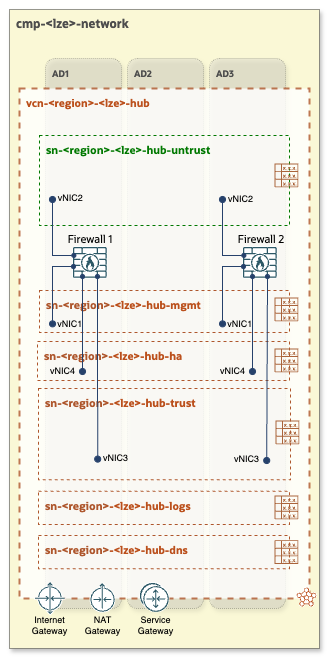
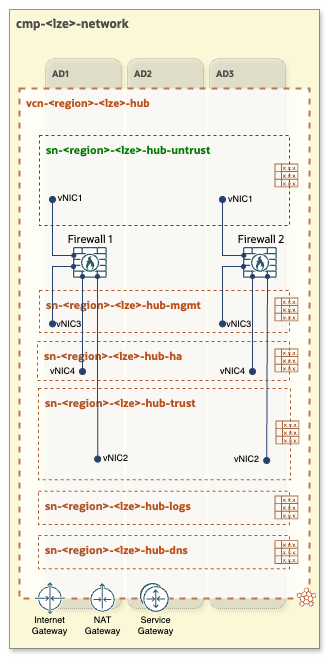
the first update of Hub-C and fixes
Former-commit-id: 9c76accb9f4b26ef5805c9e2a7d994ae54cd5b2f

diff --git a/addons/oci-hub-models/hub_c/hub-c-packet_flow.md b/addons/oci-hub-models/hub_c/hub-c-packet_flow.md
@@ -1,0 +1,103 @@
+# OCI Open LZ - [Hub C Packet Flow](#)
+
+&nbsp; 
+
+### Overview
+The purpose of this document is to illustrate, through explanatory animations, the journey of a request packet (shown as a red rectangle) and a response packet (shown as a blue rectangle), along with the corresponding routing rules in each routing table (RT), for Inbound-Outbound (North-South) and East-West network traffic, within a **Hub C** and Spoke VCNs.
+
+&nbsp; 
+
+### Hub configuration details
+The setup includes two private Network Load Balancers operating in transparent mode with symmetric hashing enabled, two third-party network firewalls ensuring high availability (HA), and a public Load Balancer (LBaaS).
+
+&nbsp;
+
+#### **Network Load Balancer: NLB-Untrust**
+   - Type: *Private*
+   - Mode: *Source and destination IP header preservation (transparent)*
+   - Symmetric hashing: *Enabled*
+   - Placement: *Public Untrust subnet*
+   - Backends: *The first vNICs of Firewall 1 and Firewall 2*
+ 
+#### **Network Load Balancer: NLB-Trust**
+   - Type: *Private*
+   - Mode: *Source and destination IP header preservation (transparent)*
+   - Symmetric hashing: *Enabled*
+   - Placement: *Private Trust subnet*
+   - Backends: *The second vNICs of Firewall 1 and Firewall 2*
+
+&nbsp;
+
+#### **Third-Party Network Firewall configuration**
+In this architecture, each firewall appliance has two virtual network interfaces: one in the Trust (private) subnet and the second one in the Untrust (public) subnet (depending on the third-party firewall vendor, additional interfaces may be presented, such as a management network interface). The interface in the public subnet is associated with a public IP address. The firewalls perform NAT for outbound traffic, allowing the Spoke VMs to reach the internet via the public interfaces (vNIC1) of either Firewall 1 or Firewall 2.
+
+The firewalls have been configured with the following static route rules:
+
+| Network | Description | Gateway | Description |
+| --- | --- | --- | --- |
+| 0.0.0.0/0 |     | 10.0.0.1 | Default Gateway of Untrust subnet |
+| 10.0.2.0/24 | CIDR of Load Balancer's subnet | 10.0.1.1 | Default Gateway of Trust subnet |
+| 192.168.10.0/24 | Spoke A | 10.0.1.1 | Default Gateway of Trust subnet |
+| 192.168.20.0/24 | Spoke B | 10.0.1.1 | Default Gateway of Trust subnet |
+
+*Table 1: 3rd Party Firewall Route Table*
+
+&nbsp;
+
+#### **Load Balancer (LBaaS)**
+To serve different web applications the public Load Balancer leverages the routing policy, which has the following configuration:
+- if a.example.com, then route to backend VM-A
+- if b.example.com, then route to backend VM-B
+
+&nbsp;
+
+### Symmetric Hashing feature
+
+The OCI Network Load Balancer leverages symmetric hashing to ensure consistent handling of packets belonging to the same flow in both forward and return directions. Here's how symmetric hashing benefits the configuration:
+- Hash Calculation: Symmetric hashing calculates the same hash for packets in both forward and return directions. This means the hash remains unchanged when the source IP address:port value is exchanged with the destination IP address:port value.
+- Traffic Inspection: By enabling symmetric hashing, both forward and return traffic can be inspected by the same firewall appliance. This firewall appliance is hosted as a backend on the OCI Network Load Balancer, functioning in a [bump-in-the-wire](https://en.wikipedia.org/wiki/Bump-in-the-wire) fashion.
+- Simplified Firewall Configuration: Symmetric hashing eliminates the need for complex configurations on the firewall appliances, such as source NAT. This helps prevent asymmetric routing issues, ensuring a more streamlined and efficient setup.
+
+Enabling symmetric hashing allows for better traffic management and inspection, scaling of network firewall appliances, and reducing the complexity of firewall configurations while maintaining efficient and reliable network routing.
+
+For more information on [OCI Network Load Balancer and Symmetric hashing](https://docs.oracle.com/en-us/iaas/Content/NetworkLoadBalancer/NetworkLoadBalancers/preserve-source-id.htm).
+
+&nbsp;
+
+### 1. Inbound Packet Flow
+- Source: Internet
+- Destination: 192.168.10.10 
+
+<img src=“https://github.com/vavardan/hub_spoke_assets/blob/main/hub_c_inbound.gif” width=“600"/>
+
+A user from the Internet attempts to access *a.example.com*, which is hosted on **VM-A** behind a Public Load Balancer. Upon DNS resolution, the user's request targets the Load Balancer's public IP address. The packet then enters the Hub VCN via Internet Gateway, which has an associated VCN route table **RT: vcn-hub-igw** (Gateway Ingress Routing). The route rule defined in this VCN route table forces the packet to go through a private IP address of the **NLB-Untrust** network load balancer. **NLB-Untrust** selects one of the backend Firewalls and uses symmetric hashing to calculate the same hash for packets in both, forward and return directions. After control and inspection the firewall routes the packet to the public load balancer, based on its internal static routes ([*Table 1*](#Third-Party-Network-Firewall-configuration)) and VCN implicit local route. The Load Balancer then attempts to forward the packet to the appropriate backend VM (in this case to **VM-A**), based on its routing policy rules.
+
+&nbsp; 
+
+### 2. Outbound Packet Flow
+- Source: 192.168.10.10
+- Destination: Internet
+  
+<img src=“https://github.com/vavardan/hub_spoke_assets/blob/main/hub_c_outbound.gif” width=“600"/>
+
+**VM-A** initiates a communication to the Internet. The packet traverses through the Dynamic Routing Gateway (DRG) and is forced by the VCN route table - **RT: vcn-hub-ingress** to choose as the next-hop **NLB-Trust**. Then it selects one of the backend firewalls and uses symmetric hashing to calculate the same hash for packets in both, forward and return directions. After inpection, firewall does a NAT and routes the packet via vNIC1 to the Internet Gateway, based on its internal static routes ([*Table 1*](#Third-Party-Network-Firewall-configuration)) and VCN route table - **RT: vcn-hub-subnet-untrust**.
+
+&nbsp; 
+
+### 3. East-West Packet Flow
+- Source: 192.168.10.10
+- Destination: 192.168.20.20 
+
+<img src=“https://github.com/vavardan/hub_spoke_assets/blob/main/hub_c_east_west.gif” width=“600"/>
+
+**VM-A** initiates a communication with **VM-B**. The packet goes through the Dynamic Routing Gateway (DRG) and and is forced by the VCN route table - **RT: vcn-hub-ingress** to choose as the next-hop **NLB-Trust**. Then it selects one of the backend firewalls and uses symmetric hashing to calculate the same hash for packets in both, forward and return directions. Firewall ispects the packet and routes it back to the DRG, based on its internal static routes ([*Table 1*](#Third-Party-Network-Firewall-configuration)) and VCN route table - **RT: vcn-hub-subnet-trust**, which is assosiated with **subnet-hub-trust** subnet. The response packet follows a similar flow to get back to the **VM-A**.
+
+&nbsp; 
+
+# License
+
+Copyright (c) 2024 Oracle and/or its affiliates.
+
+Licensed under the Universal Permissive License (UPL), Version 1.0.
+
+See [LICENSE](LICENSE) for more details.

diff --git a/addons/oci-hub-models/hub_c/readme.md b/addons/oci-hub-models/hub_c/readme.md
@@ -1,0 +1,92 @@
+# OCI Open LZ - [Hub C](#)
+## A Hub with 3rd Party FW - Active/Active
+
+&nbsp; 
+
+**Table of Contents**
+
+[1. Overview](#1-overview)</br>
+[2. Components](#2-components)</br>
+[3. Specifications and Considerations](#3-specifications-and-considerations)</br>
+[4. Routing](#4-routing)</br>
+[5. Automation](#5-automation)</br>
+
+&nbsp;
+
+### Overview
+**Hub C** features third-party network firewalls configured in an Active/Active design, paired with OCI private Network Load Balancers operating in transparent mode with symmetric hashing to ensure packet flow symmetry. These firewalls manage both Inbound/Outbound (North-South) and East-West traffic, providing thorough control and inspection.
+
+&nbsp; 
+
+<img src="images/hub_c_design.png" width="250" height="value">
+
+> [!NOTE]
+> *This Hub diagram presents a general view of the **Hub C** architecture and its key concepts. A more detailed example, including routing tables and an internet-facing Load Balancer, is presented below.*
+
+&nbsp;
+
+###  2. Components
+- VCN (Virtual Cloud Network)
+- Two regional public subnets (depicted in green)
+    1. public-subnet for External Network Load Balancer (NLB-Untrust) and the external interfaces of the firewalls (vNIC1)
+    2. public-subnet for Load Balancer (LBaaS)
+- Four regional private subnets (depicted in dark-orange)
+    1. private-subnet for Internal Network Load Balancer (NLB-Trust) and the internal interfaces of the firewalls (vNIC2)
+    2. private-subnet for managment workloads (depending on the 3rd-party firewall vendor, additional interfaces may be created here, such as a management network interfaces)
+    3. private-subnet for logs
+    4. private-subnet for DNS (for OCI DNS resolver endpoints)
+- Internet Gateway
+- Service Gateway
+- Two OCI Network Load Balancers
+- Two 3rd party Network Firewalls
+- Public Load Balancer (LBaaS)
+
+&nbsp;
+
+### 3. Specifications and Considerations
+- Symmetric hashing: Both OCI Network Load Balancers are private and operate in source and destination IP header preservation mode with symmetric hashing enabled. This feature prevents asymmetric routing, ensuring that request and return packets pass through the same firewall appliance.
+- Firewalls: Third-party network firewalls are configured in Active/Active mode, ensuring resilience and scalability. The number of firewalls can be scaled up or down depending on throughput requirements and demand.
+- NAT: This Hub model does not include a OCI NAT Gateway, as NAT functionality is handled by third-party firewalls (depending on specific requirements, this function can be configured and handled by an OCI NAT Gateway).
+- Traffic visibility: Provides detailed control over inbound/source traffic entering or outbound traffic leaving the Hub VCN.
+- License flexibility: Possibility to use already existing license (BYOL) from a specific vendor.
+
+&nbsp;
+
+### 4. Routing
+
+The following diagram presents a Hub & Spoke architecture diagram with corresponding routing tables and routing rules.
+
+<img src="images/hub_c_routing.png" width="900" height="value">
+
+&nbsp;
+
+#### Legend:
+
+<img src="images/oci_hub_models_legend.png" width="200" height="value">
+
+&nbsp;
+
+For a comprehensive understanding of how network packets flow within **Hub C** and Spoke VCNs refer to the [Network packet flow animation - Hub C](/addons/oci-hub-models/hub_c/hub-c-packet_flow.md).
+
+&nbsp;
+
+> [!NOTE]
+> *The CIDR ranges shown in the architecture diagram are for illustrative purposes only and should be adjusted to align with each specific use case.*
+
+&nbsp;
+
+
+### 5. Automation
+
+For automating this Hub model use the [CIS Network](https://github.com/oracle-quickstart/terraform-oci-cis-landing-zone-networking) Terraform modules. As an example configuration please refer to [oci_open_lz_one-oe_network.auto.tfvars.json](/one-oe/runtime/one-click/oci_open_lz_one-oe_network.auto.tfvars.json).
+
+
+&nbsp; 
+
+# License
+
+Copyright (c) 2024 Oracle and/or its affiliates.
+
+Licensed under the Universal Permissive License (UPL), Version 1.0.
+
+See [LICENSE](LICENSE) for more details.

diff --git a/addons/oci-hub-models/readme.md b/addons/oci-hub-models/readme.md
@@ -13,22 +13,19 @@ This document provides an in-depth exploration of the various **OCI Network Hub 
 
 ### The Hub Menu
 
-| [**HUB A**](/addons/oci-hub-models/hub_a/readme.md) | [**HUB B**](/addons/oci-hub-models/hub_b/readme.md) | **HUB C**  | **HUB D**  | 
+| [**HUB A**](/addons/oci-hub-models/hub_a/readme.md) | [**HUB B**](/addons/oci-hub-models/hub_b/readme.md) | [**HUB C**](/addons/oci-hub-models/hub_c/readme.md)  | **HUB D**  | 
 |:-:|:-:|:-:|:-:|
-| [<img src="hub_a/images/hub_a_design.png" width="277" height="">](/addons/oci-hub-models/hub_a/readme.md) | [<img src="hub_b/images/hub_b_design.png" width="274" height="">](/addons/oci-hub-models/hub_b/readme.md) | <img src="hub_c/images/hub_c_design.png" width="280" height=""> |  <img src="hub_d/images/hub_d_design.png" width="280" height=""> | 
+| [<img src="hub_a/images/hub_a_design.png" width="300" height="">](/addons/oci-hub-models/hub_a/readme.md) | [<img src="hub_b/images/hub_b_design.png" width="300" height="">](/addons/oci-hub-models/hub_b/readme.md) | [<img src="hub_c/images/hub_c_design.png" width="315" height="">](/addons/oci-hub-models/hub_c/readme.md) | <img src="hub_d/images/hub_d_design.png" width="315" height=""> | 
 | Hub with Two **OCI Network Firewalls** | Hub with One **OCI Network Firewall** | Hub with **3rd Party FW** - AA | Hub with **3rd Party FW** - AP |
-| [Overview and Routing](/addons/oci-hub-models/hub_a/readme.md)  | [Overview and Routing](/addons/oci-hub-models/hub_b/readme.md) | Soon | -- |
-| [Packet Flow Animation](/addons/oci-hub-models/hub_a/hub-a-packet_flow.md) | [Packet Flow Animation](/addons/oci-hub-models/hub_b/hub-b-packet_flow.md) | Soon | -- |
-
-
-
+| [Overview and Routing](/addons/oci-hub-models/hub_a/readme.md)  | [Overview and Routing](/addons/oci-hub-models/hub_b/readme.md) | [Overview and Routing](/addons/oci-hub-models/hub_c/readme.md) | -- |
+| [Packet Flow Animation](/addons/oci-hub-models/hub_a/hub-a-packet_flow.md) | [Packet Flow Animation](/addons/oci-hub-models/hub_b/hub-b-packet_flow.md) | [Packet Flow Animation](/addons/oci-hub-models/hub_c/hub-c-packet_flow.md) | -- |
 
 &nbsp; 
 
 #### Abbreviations:
 - **FW** = Firewall
-- **AA** = Active - Active
-- **AP** = Active - Passive
+- **AA** = Active/Active
+- **AP** = Active/Passive
 - **cmp** = Compartment
 - **AD** = Availability Domain
 - **vcn** = Virtual Cloud Network

diff --git a/addons/oci-hub-models/hub_b/hub-b-packet_flow.md b/addons/oci-hub-models/hub_b/hub-b-packet_flow.md
@@ -3,7 +3,7 @@
 &nbsp; 
 
 ### Overview
-The purpose of this document is to illustrate, through explanatory animations, the journey of a request packet (shown as a red rectangle) and a response packet (shown as a blue rectangle), along with the corresponding routing rules in each routing table (RT), for Inbound-Outbound (north-south) and East-West network traffic, within a **Hub B** and Spoke VCNs.
+The purpose of this document is to illustrate, through explanatory animations, the journey of a request packet (shown as a red rectangle) and a response packet (shown as a blue rectangle), along with the corresponding routing rules in each routing table (RT), for Inbound-Outbound (North-South) and East-West network traffic, within a **Hub B** and Spoke VCNs.
 
 &nbsp; 
 

diff --git a/addons/oci-hub-models/hub_a/readme.md b/addons/oci-hub-models/hub_a/readme.md
@@ -67,7 +67,7 @@ For a comprehensive understanding of how network packets flow within **Hub A** a
 &nbsp;
 
 > [!NOTE]
-> The CIDR ranges shown in the architecture diagram are for illustrative purposes only and should be adjusted to align with each specific use case.
+> *The CIDR ranges shown in the architecture diagram are for illustrative purposes only and should be adjusted to align with each specific use case.*
 
 &nbsp;
 

diff --git a/addons/oci-hub-models/hub_b/readme.md b/addons/oci-hub-models/hub_b/readme.md
@@ -67,7 +67,7 @@ For a comprehensive understanding of how network packets flow within **Hub B** a
 &nbsp;
 
 > [!NOTE]
-> The CIDR ranges shown in the architecture diagram are for illustrative purposes only and should be adjusted to align with each specific use case.
+> *The CIDR ranges shown in the architecture diagram are for illustrative purposes only and should be adjusted to align with each specific use case.*
 
 &nbsp;
 

diff --git a/addons/oci-hub-models/hub_d/readme.md b/addons/oci-hub-models/hub_d/readme.md
@@ -1,0 +1,3 @@
+# OCI Open LZ - [Hub D](#)
+## A Hub with 3rd Party FW - Active/Passive
+
